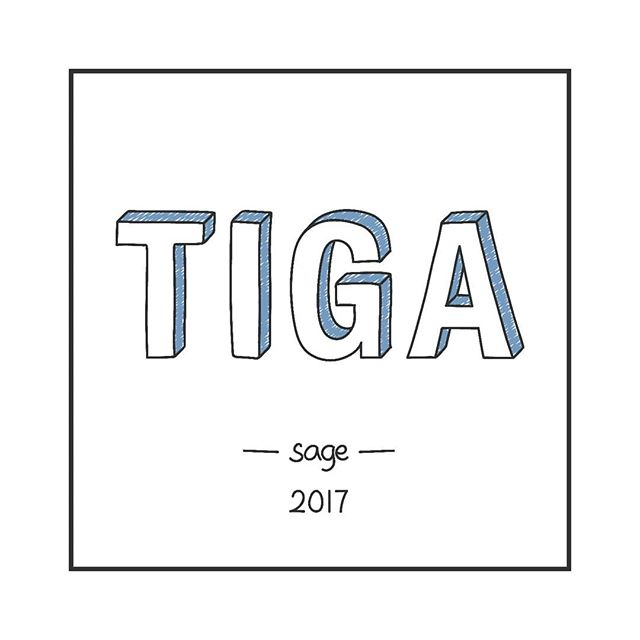
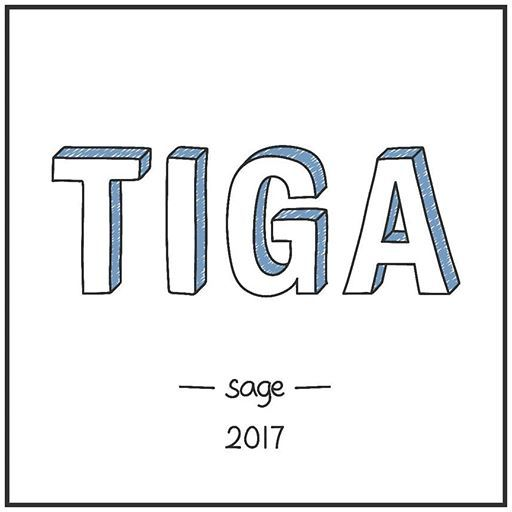
Resize images in art projects

Changed region(s): [[0.0938, 0.0938, 0.9062, 0.9062], [0.0, 0.0, 1.0, 1.0], [0.3438, 0.75, 0.4062, 0.7812]]

diff --git a/src/data/projects/art.ts b/src/data/projects/art.ts
@@ -29,6 +29,7 @@ export const data = [
     id: 4,
     image: {
       src: tiga,
+      class: ['w-3/4'],
     },
     title: 'Tiga',
     url: 'https://www.instagram.com/p/BdRHV1TDYqx',
@@ -57,7 +58,7 @@ export const data = [
     id: 1,
     image: {
       src: aidensreactions,
-      class: ['p-4'],
+      class: ['w-3/4'],
     },
     title: 'Aiden\'s Reactions',
     url: 'https://telegram.me/addstickers/AidenR1',
